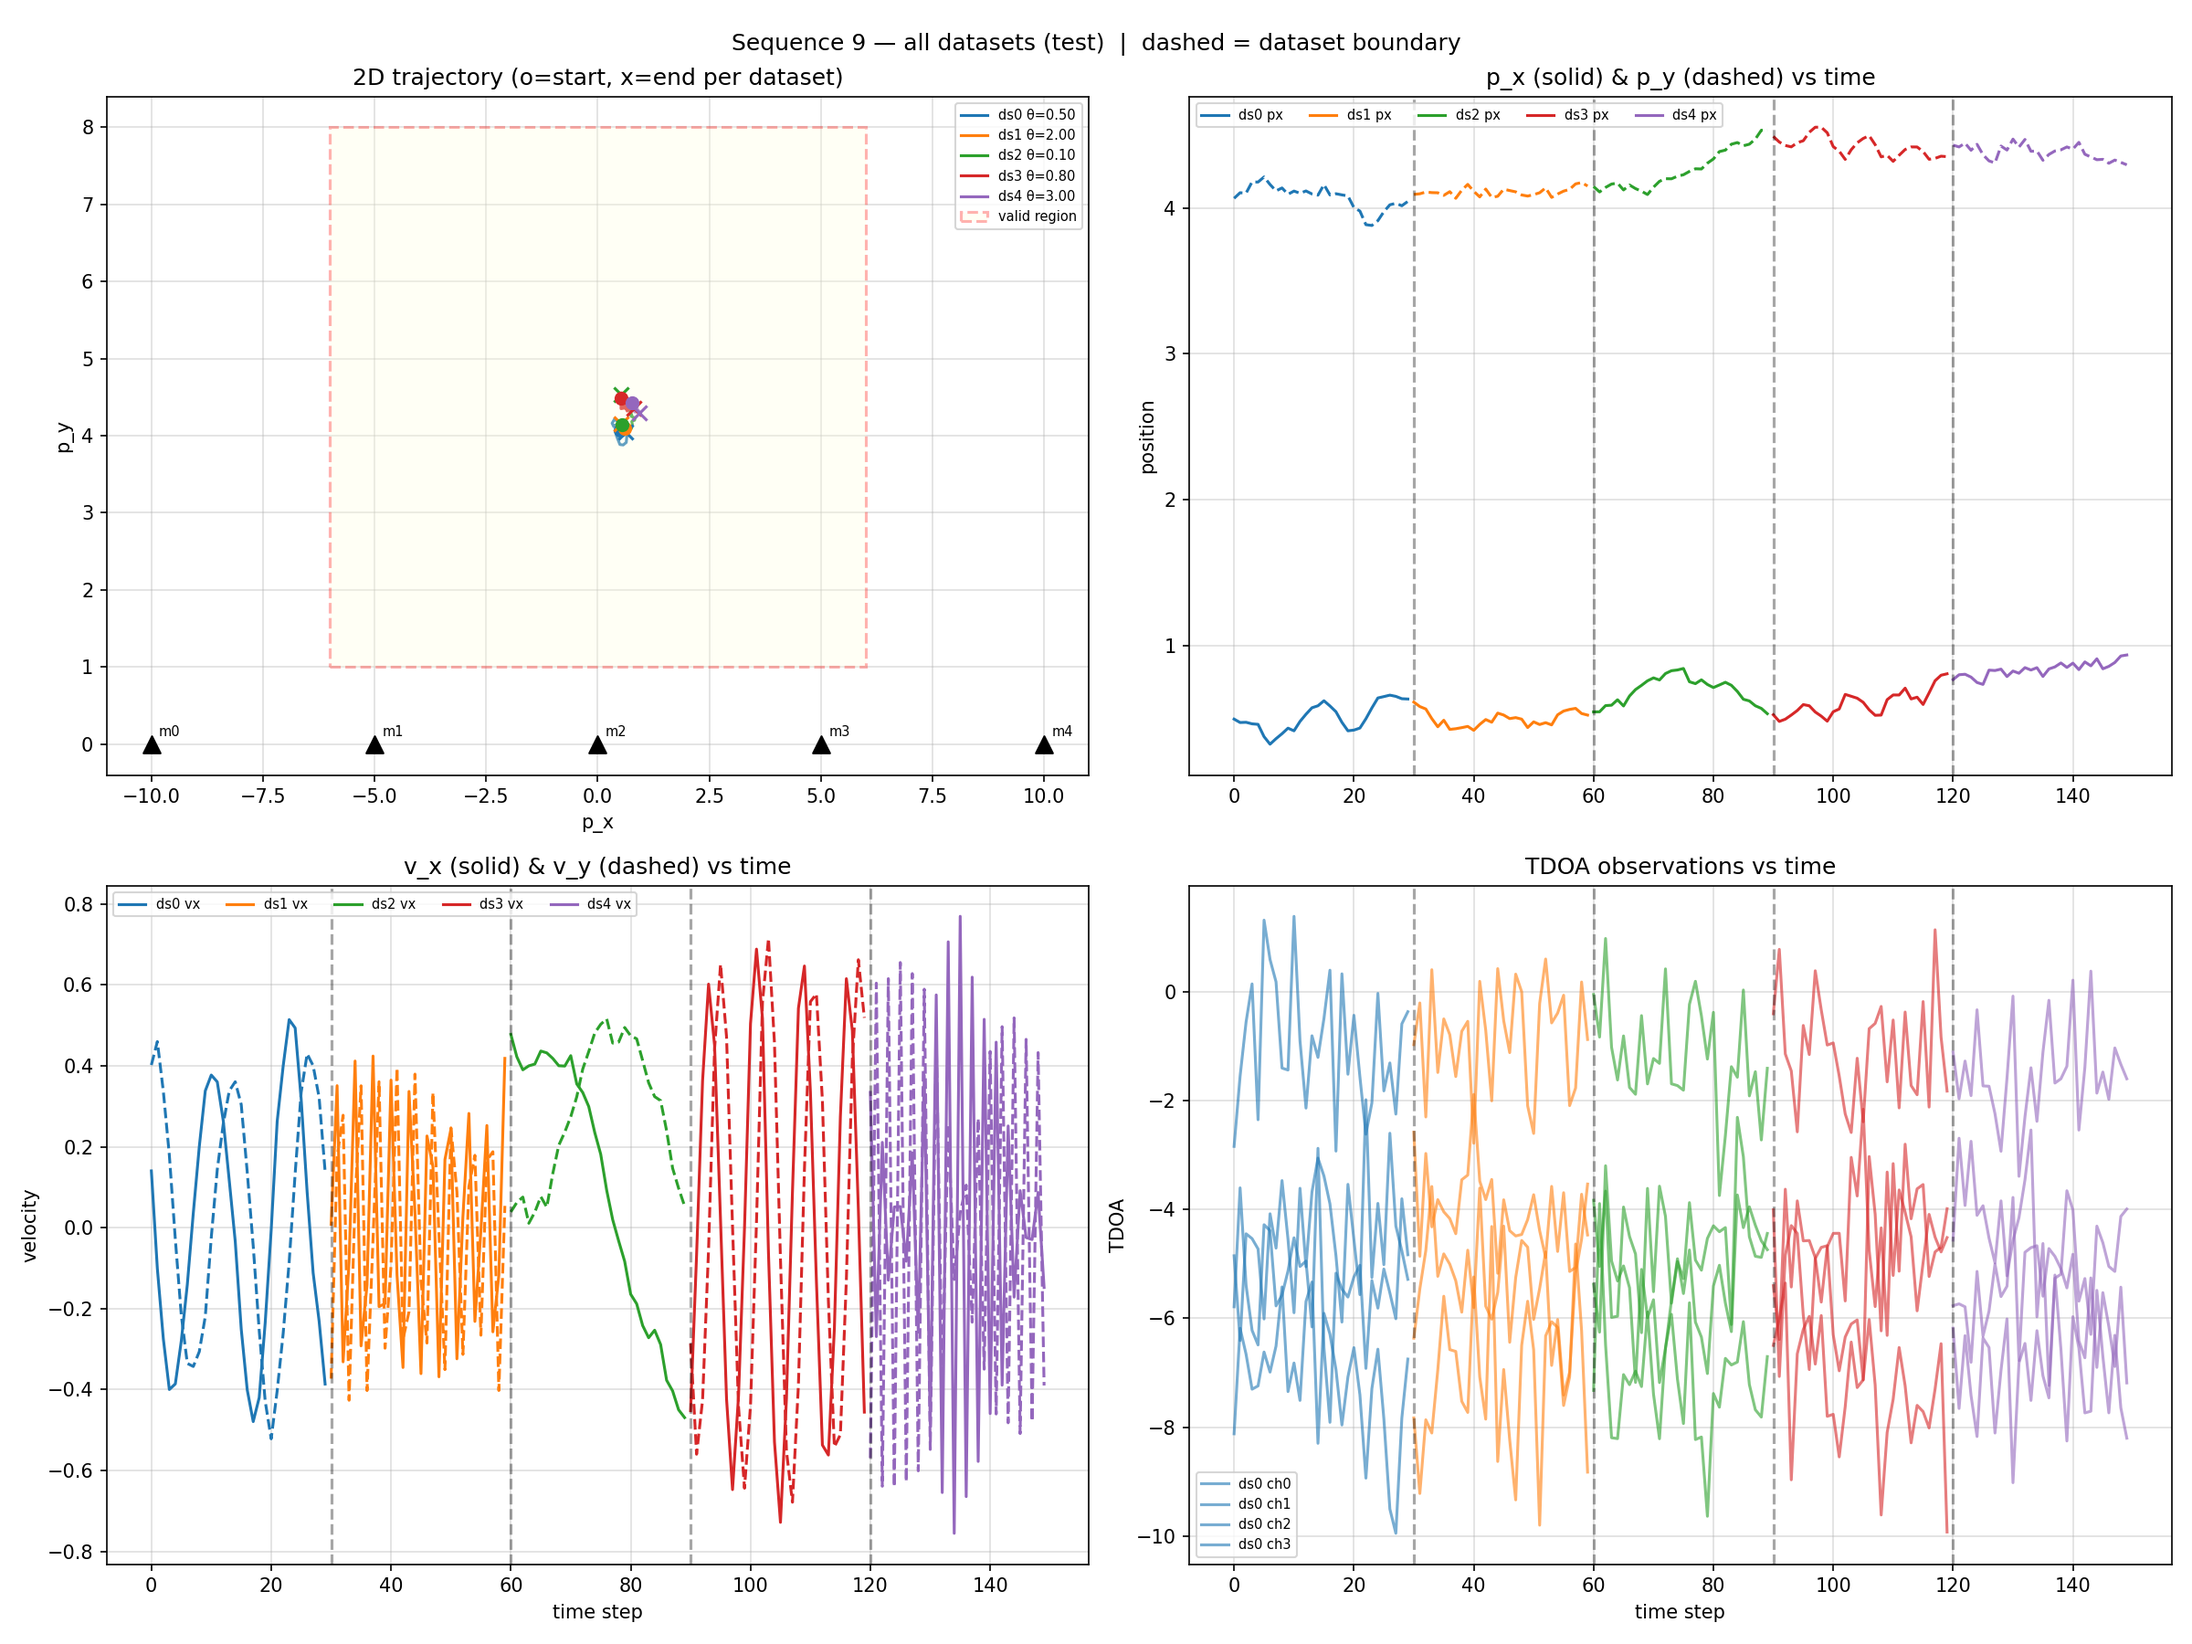
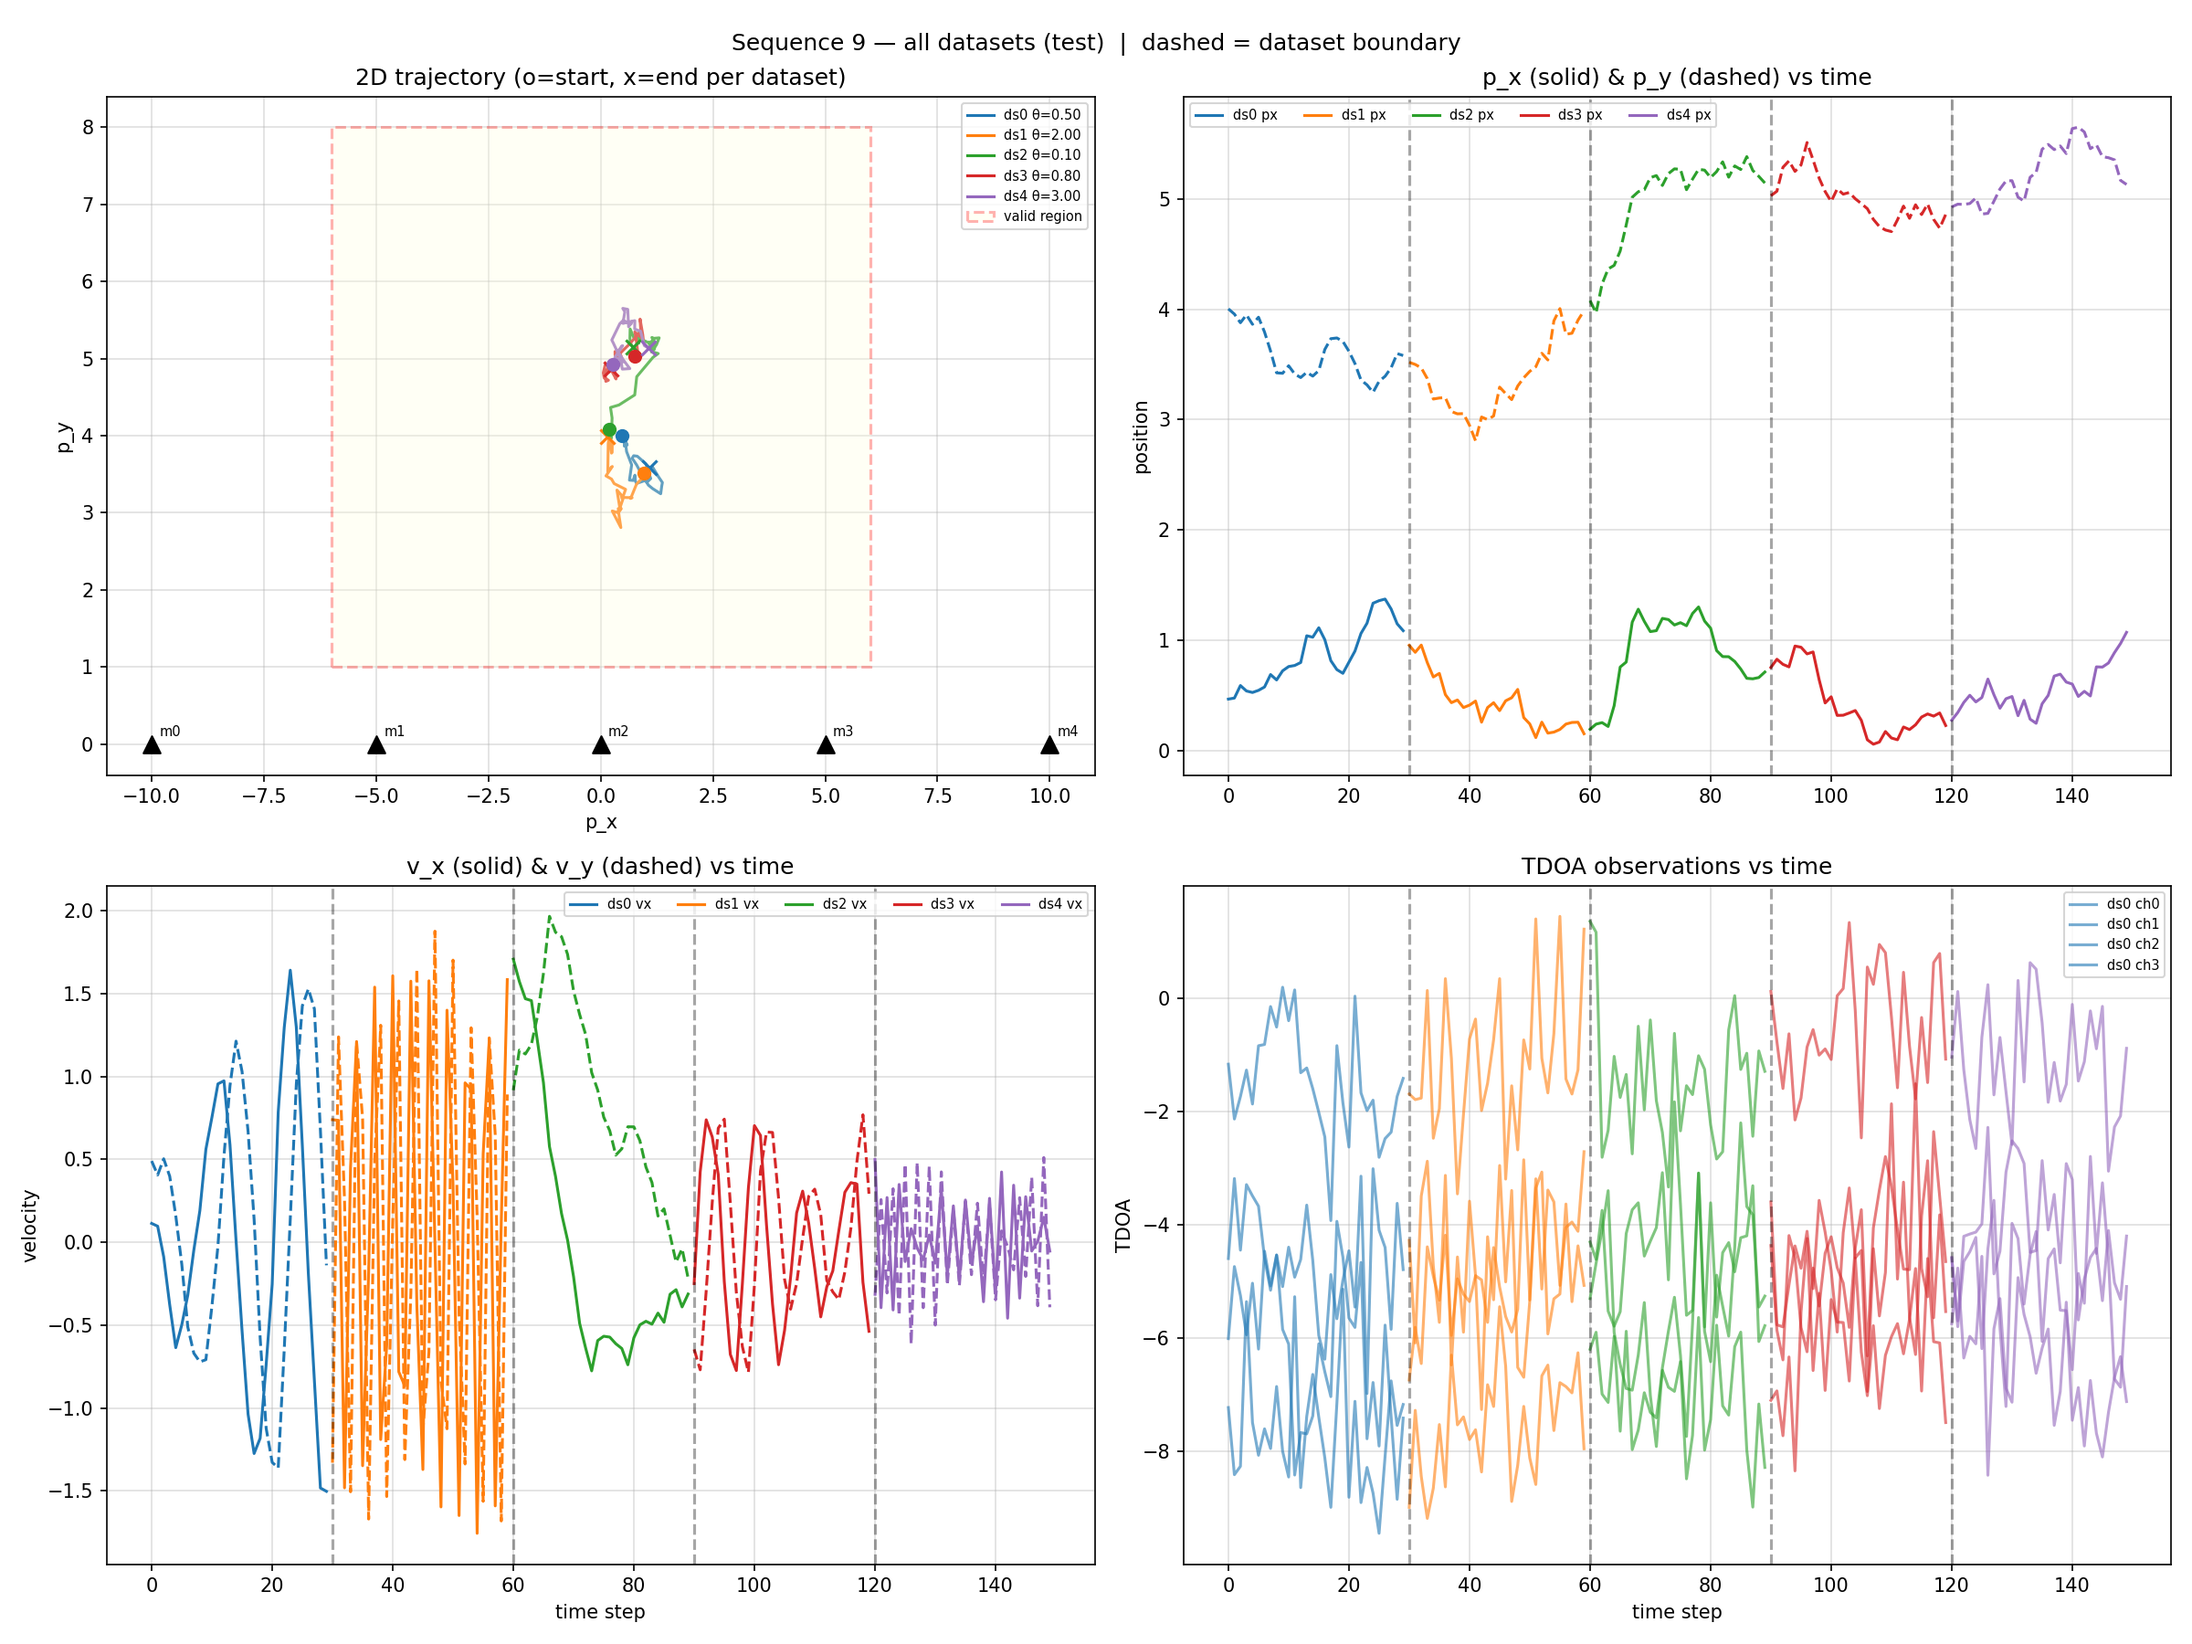
f

diff --git a/microphons_test_analytic_3_dataset.py b/microphons_test_analytic_3_dataset.py
@@ -46,7 +46,7 @@ args.T_test = 30
 
 T_test = args.T_test
 
-q2 = 0.001
+q2 = 0.01
 r2 = 1
 
 cycle              = 5
@@ -240,6 +240,16 @@ for j in range(N_T):
             out_true_seq0.append(x_s_true)
             out_false_seq0.append(x_s_false)
 
+print("\n── ERTS results ──────────────────────────────────────────────────────")
+for k in range(cycle):
+    true_db  = 10 * math.log10(mse_true_arr[k].mean().item())
+    false_db = 10 * math.log10(mse_false_arr[k].mean().item())
+    print(f"  Dataset {k}  ERTS true-F: {true_db:.2f} dB   ERTS false-F: {false_db:.2f} dB")
+_true_avg  = 10 * math.log10(mse_true_arr.mean().item())
+_false_avg = 10 * math.log10(mse_false_arr.mean().item())
+print(f"  Overall    ERTS true-F: {_true_avg:.2f} dB   ERTS false-F: {_false_avg:.2f} dB")
+print("──────────────────────────────────────────────────────────────────────\n")
+
 ## ── Cross-check (confirmed equivalent, F diff ~1e-6) — commented out ──────────
 ## def run_emkf_ekf_erts(y_seq, F_init, x_0, P_0, max_it):
 ##     F_est = F_init.clone()
@@ -330,22 +340,22 @@ for data in range(cycle):
 ###  Run BiGRU baseline               ###
 #########################################
 # Load the BiGRU trained by microphons_training_3_dataset.py — no retraining here.
-bigru_train_dir = f"RTSNet/tdoa_2d/1/{cycle}cycle/"
-load_path_bigru = bigru_train_dir + "BiGRU.pt"
-print(f"\nLoading BiGRU from {load_path_bigru} ...")
-bigru_model = torch.load(load_path_bigru, weights_only=False, map_location=device)
-bigru_model.eval()
+# bigru_train_dir = f"RTSNet/tdoa_2d/1/{cycle}cycle/"
+# load_path_bigru = bigru_train_dir + "BiGRU.pt"
+# print(f"\nLoading BiGRU from {load_path_bigru} ...")
+# bigru_model = torch.load(load_path_bigru, weights_only=False, map_location=device)
+# bigru_model.eval()
 
-print("Running BiGRU inference across all datasets ...")
+# print("Running BiGRU inference across all datasets ...")
 
-with torch.no_grad():
-    for data in range(cycle):
-        y_batch = all_test_inputs[data]    # [N_T, n, T]
-        x_batch = all_test_targets[data]   # [N_T, m, T]
-        x_hat   = bigru_model(y_batch)     # [N_T, m, T]
-        for j in range(N_T):
-            mse_bigru_arr[data, j] = loss_fn(x_hat[j], x_batch[j]).item()
-        out_bigru_seq0.append(x_hat[0].cpu())
+# with torch.no_grad():
+#     for data in range(cycle):
+#         y_batch = all_test_inputs[data]    # [N_T, n, T]
+#         x_batch = all_test_targets[data]   # [N_T, m, T]
+#         x_hat   = bigru_model(y_batch)     # [N_T, m, T]
+#         for j in range(N_T):
+#             mse_bigru_arr[data, j] = loss_fn(x_hat[j], x_batch[j]).item()
+#         out_bigru_seq0.append(x_hat[0].cpu())
 
 #########################################
 ###  Results summary                  ###
@@ -357,22 +367,22 @@ print("=" * 70)
 mse_true_db_per_dataset  = [10 * math.log10(mse_true_arr[k].mean().item())  for k in range(cycle)]
 mse_false_db_per_dataset = [10 * math.log10(mse_false_arr[k].mean().item()) for k in range(cycle)]
 mse_emkf_db_per_dataset  = [10 * math.log10(mse_emkf_arr[k].mean().item())  for k in range(cycle)]
-mse_bigru_db_per_dataset = [10 * math.log10(mse_bigru_arr[k].mean().item()) for k in range(cycle)]
+# mse_bigru_db_per_dataset = [10 * math.log10(mse_bigru_arr[k].mean().item()) for k in range(cycle)]
 
 for k in range(cycle):
     print(f"  Dataset {k}  ERTS true-F : {mse_true_db_per_dataset[k]:.2f} dB"
           f"   ERTS false-F: {mse_false_db_per_dataset[k]:.2f} dB"
-          f"   EMKF: {mse_emkf_db_per_dataset[k]:.2f} dB"
-          f"   BiGRU: {mse_bigru_db_per_dataset[k]:.2f} dB")
+          f"   EMKF: {mse_emkf_db_per_dataset[k]:.2f} dB")
+        #   f"   BiGRU: {mse_bigru_db_per_dataset[k]:.2f} dB")
 
 mse_true_avg_db  = 10 * math.log10(mse_true_arr.mean().item())
 mse_false_avg_db = 10 * math.log10(mse_false_arr.mean().item())
 mse_emkf_avg_db  = 10 * math.log10(mse_emkf_arr.mean().item())
-mse_bigru_avg_db = 10 * math.log10(mse_bigru_arr.mean().item())
+# mse_bigru_avg_db = 10 * math.log10(mse_bigru_arr.mean().item())
 print(f"\n  ERTS TRUE-F  (overall avg) : {mse_true_avg_db:.2f} dB")
 print(f"  ERTS FALSE-F (overall avg) : {mse_false_avg_db:.2f} dB")
 print(f"  EMKF         (overall avg) : {mse_emkf_avg_db:.2f} dB")
-print(f"  BiGRU        (overall avg) : {mse_bigru_avg_db:.2f} dB")
+# print(f"  BiGRU        (overall avg) : {mse_bigru_avg_db:.2f} dB")
 print("=" * 70)
 
 #########################################
@@ -389,14 +399,14 @@ for k in range(cycle):
     ax.plot(t_axis, out_true_seq0[k].cpu()[1],  "--",  linewidth=2,   label="ERTS true F")
     ax.plot(t_axis, out_false_seq0[k].cpu()[1], ":",   linewidth=2,   label="ERTS false F")
     ax.plot(t_axis, out_emkf_seq0[k].cpu()[1],  "-.",  linewidth=2,   label="EMKF")
-    ax.plot(t_axis, out_bigru_seq0[k][1],        "-.",  linewidth=2,   label="BiGRU")
+    # ax.plot(t_axis, out_bigru_seq0[k][1],        "-.",  linewidth=2,   label="BiGRU")
     ax.set_ylabel(f"Dataset {k}\ny position")
     ax.legend(loc="upper right", fontsize=8)
     ax.grid(True, linestyle="--", alpha=0.5)
     ax.set_title(f"Dataset {k} — true: {mse_true_db_per_dataset[k]:.2f} dB  "
                  f"false: {mse_false_db_per_dataset[k]:.2f} dB  "
-                 f"EMKF: {mse_emkf_db_per_dataset[k]:.2f} dB  "
-                 f"BiGRU: {mse_bigru_db_per_dataset[k]:.2f} dB")
+                 f"EMKF: {mse_emkf_db_per_dataset[k]:.2f} dB")
+                 #  f"BiGRU: {mse_bigru_db_per_dataset[k]:.2f} dB")
 
 axes[-1].set_xlabel("time")
 fig.suptitle(f"TDOA ERTS analytic — {cycle}-dataset sequential scenario", fontsize=13)
